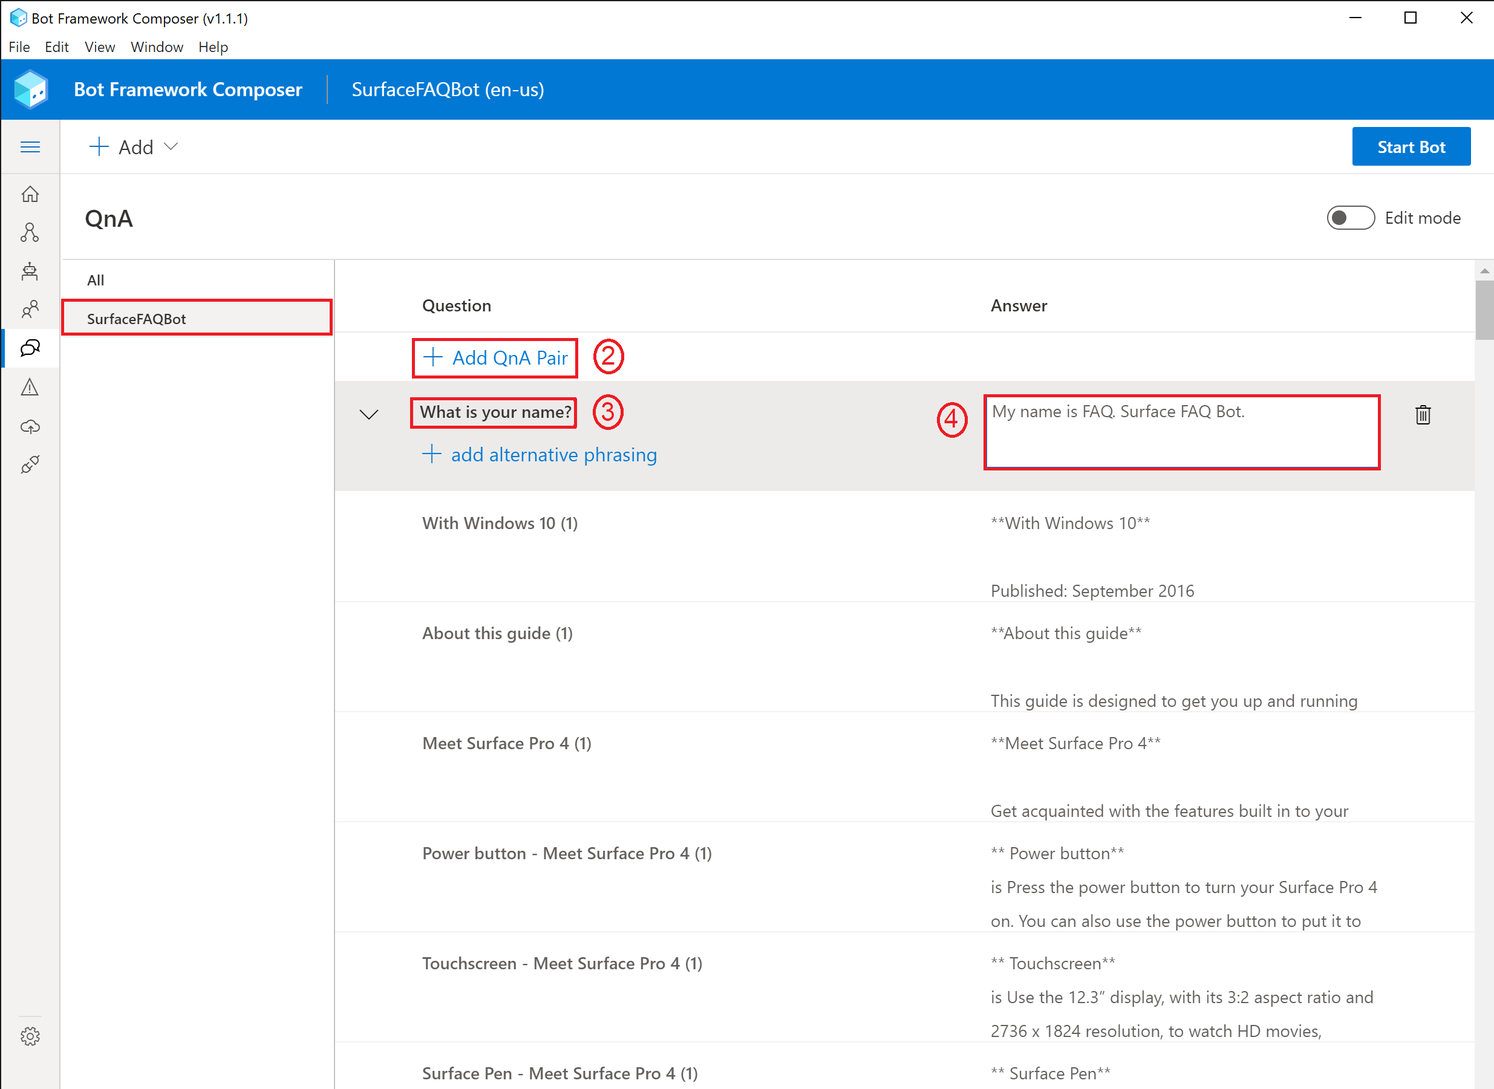
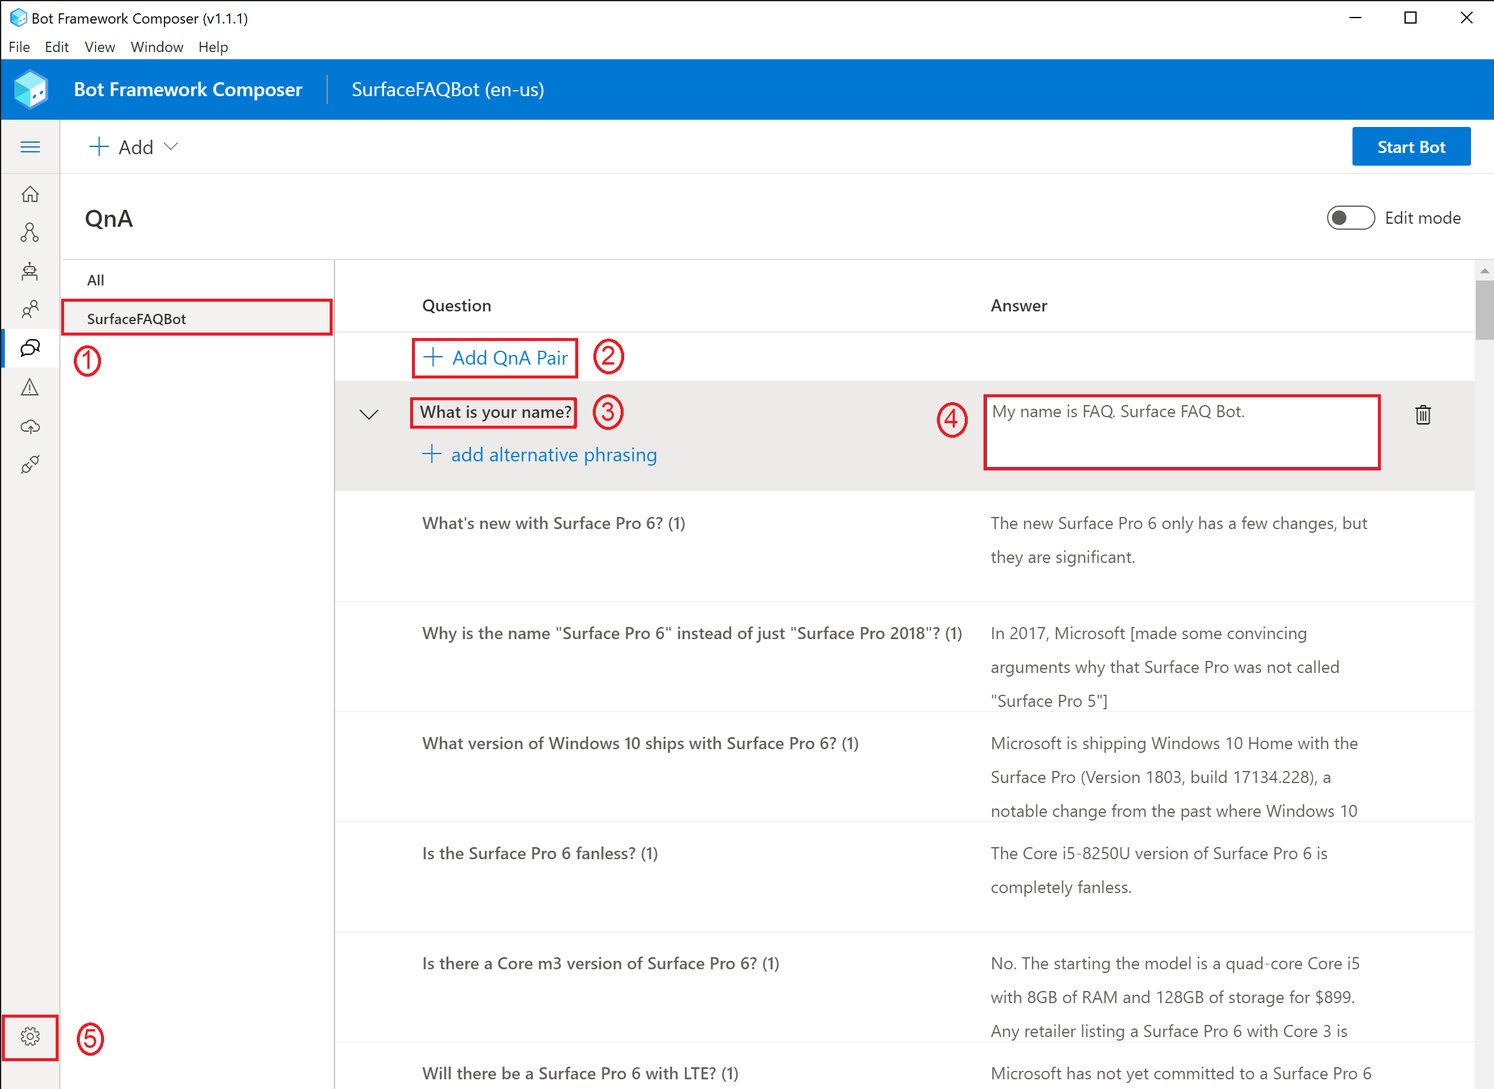
Updates.

diff --git a/README.md b/README.md
@@ -67,6 +67,7 @@ Bot Framework Composer is an open-source, visual authoring canvas for developers
      - On the top right hand corner of the page, **click on the icon that has your first and last name initials**.
         ![Azure Porta - QnAMaker portal](./images/qnamaker-portal.png)     
      - Click on **Show** next to the key belonging to the **QnaMaker** resouce you just deployed earlier. **Take note** of this key as your query endpoint key.
+        ![Azure Porta - QnAMaker portal](./images/qnamaker-portal-2.png)    
      >IMPORTANT:- You should now have taken notes of two keys, QnAMaker's authoring and query endpoint keys. You will need these keys in the next steps.
 
 ### 1. Building our Surface FAQ Bot locally!
@@ -90,7 +91,7 @@ Bot Framework Composer is an open-source, visual authoring canvas for developers
 
       ![Bot Framework Composer - Create from knowledge base](./images/BFComposer-3.png)
 
-     - Under **URL** input the following URL **https://github.com/samaea/Surface-FAQ-Bot-Workshop/raw/master/downloads/product-manual.pdf**. This is the Surface Book User Guide we will use to form our knowledge base from. Feel free to download the file yourself to see what is in it.
+     - Under **URL** input the following URL **https://www.windowscentral.com/surface-pro-6-faq**. This is just a random FAQ website I found for Surface FAQs
      - Click on **Create knowledge base**
      > A knowledge base consists of question and answer pairs. This can be brought manually or by public URLs and files (PDF, docx, etc). Once defined, QnAMaker will crawl the destination source and automatically extract the pair of questions and answers from it. For more information on different content-types supported by QnAMaker, please visit [here](https://docs.microsoft.com/en-us/azure/cognitive-services/qnamaker/concepts/content-types).
 
@@ -100,178 +101,32 @@ Bot Framework Composer is an open-source, visual authoring canvas for developers
      - Click on **SurfaceBotFaq**
      - Click on **Add QnA Pair**
      - For the **question**, type in **What is your name?** and for the **answer** type in **My name is FAQ. Surface FAQ Bot**
+     - Click on the **Settings** cogwheel, located on the bottom left corner of the screen.
 
       ![Bot Framework Composer - Create from knowledge base](./images/BFComposer-5.png)
 
   1. Let's configure Bot Framework Composer project/bot to point to the QnAMaker instance we deployed in Azure.
-     - Click on the **Settings** cogwheel.
+
      - In **Bot Settings**, you will notice a textbox field with JSON configuration in it, which represents the settings for your bot. **Scroll down** until you see the **qna** section.
      - In between the blank quotations **""** next to **subscriptionKey**, input your QnAMaker authoring key obtained in previous steps. Similary, to do the same with **endpointKey**, but input your querying endpoint key.
+     - Finally, click on **Start Bot**
+
+      ![Bot Framework Composer - Create from knowledge base](./images/BFComposer-6.png)
 
 
-      - Select the **Greeting** dialog and click on **Send a response** . Change the response to the following
+  1. Time to test the bot out locally!
+     - Click on **Test in Emulator** , right next to the **Restart Bot** button, which was previously called **Start Bot**
+     - Speak to the bot by asking it similar questions to the ones we populated earlier.
 
-      ```code
-      - Hi there! I am the Image Recognizer Bot, how can I help you today?
-      - Why hello there, it's me, the one and only Image Recognizer Bot, how can I assist you today?
-      ```
-
-      >The above demonstrates that you can greet your user with a variation of responses. Your bot will pick which one at random and display the respective response. This feature is great because it makes your bot sound less robotic compared to when it sends the exact same response each time. 
-
-
-      ![Bot Framework Composer - Changing Greeting message](./images/BFComposer-4.png)
-
-
-  1. >We will now extend our bot by adding a new intent and dialog called UploadImage. In order for our bot to detect this intent, we need to give it a few example utterances/sentences that demonstrates this intent. These utterances are then used by LUIS (Language Understanding Intelligent Service) to train the model for mapping our user's utterances with this intent.
-
-      - Click on **+ Add** and then **Add new trigger on ImageRecognizerBot**
-
-      - Name the dialog **UploadImage** dialog and provide the following example utterances to train LUIS
-
-
-      ```code
-      - I would like to upload an image
-      - analyse my picture
-      - describe an image
-      ``` 
-
-      ![Bot Framework Composer - Adding a new dialog](./images/BFComposer-5.png)
-      
-      ![Bot Framework Composer - Intent/Trigger phrases](./images/BFComposer-6.png)
-
-  1. >Now it's time to populate our UploadImage dialog to capture image uploads from our user,
-
-      - Click **+** -> **Ask a question** -> **File or attachment**
-
-      - Click on **Bot Asks (Attachment)** and paste in the following text:-
-
-      ```code
-      - Sure! Please upload the image you would like me to analyse?
-      ```
-
-      ![Bot Framework Composer - Ask a question, file or attachment](./images/BFComposer-7.png)
-
-      ![Bot Framework Composer - Inputting prompt message](./images/BFComposer-8.png)
-
-  1. Click on **User Input** and name the property **dialog.attachment** and Output format as **all**
-     > This basically means we can store and access the properties of our uploaded image via the variable dialog.attachment. Because we are using the property dialog to store our variable, the lifetime of our variable will persist to the same lifetime as our dialog. To learn more about memory state, please visit https://docs.microsoft.com/en-us/composer/concept-memory.
-
-      ![Bot Framework Composer - Setting property and output format](./images/BFComposer-9.png)
-
-  1. Click on  **+** -> **Send a response** and input the following text into the Language Generation box.
-
-      ```code
-      [HeroCard
-      title = Here is the photo you uploaded!
-      image = ${dialog.attachment[0].contentUrl}
-      ]
-      ```
-  
-      > It is possible to send bot responses that have enriched content beyond plaintext. This is when elements like HeroCard come in handy to display content such as images. More information on different type of cards can be found here:- https://docs.microsoft.com/en-us/composer/how-to-send-cards#card-types.
-
-      ![Bot Framework Composer - Inputting prompt message](./images/BFComposer-10.png)
-
-
-  1. Time to run and test our bot works okay! Click on **Start Bot**.
-
-      - It will ask you for a **LUIS Authoring key**, please ask your instructor for this key if you do not already have one. 
-      - Once inputted, click on **OK** and then click on  **Test in Emulator**.
-
-
-      ![Bot Framework Composer - Test in Emulator](./images/BFComposer-11.png)
-
-  1. Before we ask our bot to analyse an image, we need to provide one. As such, lets download Mr.Bean's picture from Flickr (because why not :)) https://live.staticflickr.com/4244/34613307720_d29cf0dd97_o_d.jpg.
-
-  1. Ask the bot to analyse your image. Use the below transcript screenshot as an example on how to do that. When it asks to upload an image, click on the **Attachment** icon -> Browse to your **Downloads** folder and select the image you just downloaded.
-
-      ![Bot Framework Composer - Bot Framework Emulator](./images/bf-emulator.png)
-
-      >Your bot should have returned a preview of the image you uploaded. This is an indication everything is working fine - well done! Next step will be to connect to Azure AI Cognitive Service to describe our image and for our bot to return the result.
-
-1. Let's now add a step to send our uploaded images to be analysed by Azure AI Cognitive Service called Computer Vision. Before we can do this however, we will need to deploy Computer Vision via Azure.
-
-    - Navigate to https://portal.azure.com
-    - Click on **Create a new resource**
-    - Search for **Computer Vision** and when the option appears in the dropdown menu, click on it.
-    - Click **Create**
-    - Fill out the form:-
-        - **Resource group**:- select your resource group you want to deploy the bot to e.g. **labuser1000-ImageRecognizerBot**
-        - **Region**:- select **North Europe**.
-        - **Name**:- name your Computer Vision API e.g. labuser1000-ImageRecognizerBot-computervision
-    - Click on **Review + create** and then **Create**
-    - Once deployed, click on **Go to Resource**
-    - Click on **Keys and Endpoint** from the left handside menu and take note of **Key 1** and the **Endpoint**.
-
-
-      ![Azure Portal - Create a new resource](./images/azure-portal-5.png)
-
-      ![Azure Portal - Searching for Computer Vision](./images/azure-portal-6.png)
-
-      ![Azure Portal - Computer Vision - Create](./images/azure-portal-7.png)
-
-      ![Azure Portal - Computer Vision - Create](./images/azure-portal-8.png)
-
-      ![Azure Portal - Computer Vision - Create](./images/azure-portal-9.png)
-
-      ![Azure Portal - Computer Vision - Keys and Endpoint](./images/azure-portal-10.png)
-
-      ![Azure Portal - Computer Vision - Keys and Endpoint](./images/azure-portal-11.png)
-
-
-  1. Switch back to Composer and click on the **+** button, the one just before the HeroCard response -> **Access External Resources** - > **Send an HTTP Request**
-      - Select the **HTTP method** as **POST**
-      - Set the URL to **XXXX**/vision/v2.1/analyze?visualFeatures=Description,Tags&subscription-key=**YYYY**
-      - Replace **XXXX** with the Computer Vision **endpoint** and **YYYY** with the **Key 1** (obtained from the previous step). 
-      - In the **Body** paste the following:-
-        ```code
-        {"url":"${dialog.attachment[0].contentUrl}"}
-         ```
-      - Under the **Result property**, input **dialog.visionApiResponse**
-        > This will basically output the response of the Vision API call into that variable. More information about sending HTTP requests in Composer can be found [here](https://docs.microsoft.com/en-us/composer/how-to-send-http-request).
-      
-      ![Bot Framework Composer - HTTP Request](./images/BFComposer-12.png)
-
-  1.  Let's modify the HeroCard response to reflect the results from the Computer Vision response. **Replace** its content with the following:-
-      ```code
-      [HeroCard
-          title = Here is the attachment
-          text = Description:- ${dialog.visionApiResponse.content.description.captions[0].text}  \r\n Tags:- ${replace(string(dialog.visionApiResponse.content.description.tags),'\r\n', '')}
-          image = ${dialog.attachment[0].contentUrl}
-       ]
-       ```
-       > As you can see above, we are accessing the properties of the dialog.visionApiResponse, which is the response given back when we performed the HTTP request above to the Computer Vision API. In addition, I used \r\n to generate a linebreak in the response and used the builtin replace function to remove the linebreaks from the HTTP response making it more readable.
-  1. To have this solution also work with Microsoft Teams, the attachment is accessible by the variable ${dialog.attachment[0].content.downloadUrl}** instead of ${dialog.attachment[0].contentUrl}. This is due to the file being behind an authenticated link. If you're interested to know more, have a look [here](https://developer.microsoft.com/en-us/microsoft-teams/blogs/working-with-files-in-your-microsoft-teams-bot/).
-
-      - Click on **+** -> **Create a condition** -> **Branch: If/Else**
-      - In the Condition field, set it to:-
-        ```code
-        exists(dialog.attachment[0].content.downloadUrl)
-        ```
-      - Under **True** click on **+** -> **Manage properties** -> **Set a property**
-      - Under the **Property** field, set it to:-
-        ```code
-        dialog.attachment[0].contentUrl
-        ```
-      ![Bot Framework Composer - Branch If/Else](./images/BFComposer-14.png)
-      - Under **Value** set it to:-
-        ```code
-        ${dialog.attachment[0].content.downloadUrl}
-        ```
-      ![Bot Framework Composer - Set a property](./images/BFComposer-15.png)
-
-  1. Go ahead and click on **Restart the bot** and afterwards on **Test in Emulator**
-      - Click on the **Settings** icon and ensure the tickbox **Bypass ngrok for local addressess** is **unticked**
-      - Swith back to the **Live Chat** tab
-      ![Bot Framework Emulator](./images/bf-emulator-3.png) 
-      - Try asking the bot to analyse your picture again and upload the same picture. You should see a response similar to the screenshot below:-
-      ![Bot Framework Emulator](./images/bf-emulator-2.png) 
+      ![Bot Framework Emulator](./images/bfemulator.png)
+  >Well done, you've successfully created a bot locally that leverages QnAMaker in the cloud to provide FAQ answers based on the data we trained it with.
 
 
 ### 2. Deploy our bot to Azure
   >In order to speak with our bot outside of our over channels such as Teams
-  1. Find out the location of your bot by clicking on the **Home** icon and reviewing the **Location** column. E.g. C:/Users/hussel/ImageRecognizerBot
+  1. Find out the location of your bot by clicking on the **Home** icon and reviewing the **Location** column. E.g. C:\Users\hussel\Bots\SurfaceFAQBot
 
-      ![Bot Framework Composer - Home](./images/bf-composer-13.png) 
+      ![Bot Framework Composer - Home](./images/bfcomposer-7.png) 
 
   1. We will also need to know the Azure Subscription Id of the subscription we will deploy our bot to:-
 
@@ -297,6 +152,10 @@ Bot Framework Composer is an open-source, visual authoring canvas for developers
      - Run the following command:-
         ```code
         npm install
+        # Modified the original composer template to exclude qnamaker as we have already deployed this in the first step. This will override the template created by the Bot Framework Composer
+        Invoke-WebRequest -Uri "https://github.com/samaea/Surface-FAQ-Bot-Workshop/raw/master/downloads/template-with-preexisting-rg.json" -OutFile "./DeploymentTemplates/template-with-preexisting-rg.json"
+        # Modifying the script to make it easier to deploy to an existing resource group
+        (Get-Content -path .\provisionComposer.js -Raw).replace('resourceGroupName = `${name}-${environment}`;','resourceGroupName = `${name}`;').replace('${name}-${environment}','${name}') | Set-Content -Path .\provisionComposer.js
         ```     
 
      - Run the following command, but replace the following values:-
@@ -304,9 +163,8 @@ Bot Framework Composer is an open-source, visual authoring canvas for developers
        - **\<NAME OF YOUR RESOURCE GROUP\>** with a **globally unique** name. For example, your **youralias-ImageRecognizerBot**
        - **\<APP PASSWORD\>** with a password that is at least 16 characters long with at least one number, one letter, and one special character. You can use your own password or even an online password generator such as https://www.random.org/passwords/
           ```code
-          node provisionComposer.js --subscriptionId=<YOUR AZURE SUBSCRIPTION ID> --name=<NAME OF YOUR RESOURCE GROUP>--appPassword=<APP PASSWORD> --environment=dev --createLuisAuthoringResource false --location northeurope --createCosmosDb false
+          node provisionComposer.js --subscriptionId=<YOUR AZURE SUBSCRIPTION ID> --name=<NAME OF YOUR RESOURCE GROUP>--appPassword=<APP PASSWORD> --environment=dev --createLuisAuthoringResource false --location westeurope --createCosmosDb false
           ```
-        ![PowerShell - cd](./images/powershell-2.png)
        - Assuming you have the same outcome as the above screenshot, you will be asked to navigate to **https://microsoft.com/devicelogin** and enter the code provided to authenticate into Azure. Please do this and select the correct account.
 
         ![PowerShell - cd](./images/powershell-3.png)
@@ -316,39 +174,36 @@ Bot Framework Composer is an open-source, visual authoring canvas for developers
        - **Switch back to PowerShell** upon successful authentication. You should notice everything is now deploying to Azure. When it finishes, it will output a JSON file which we will use in Bot Framework Composer. **Copy the output from the terminal** somewhere like Notepad, everything from the first open bracket until the last bracket, **for example**:-
        ```code
        {
-        "accessToken": "XXXX",
-        "name": "XXXX",
-        "environment": "dev",
-        "settings": {
-          "applicationInsights": {
-            "InstrumentationKey": "XXXX-XXXX-XXXX-XXXX-XXXX"
-          },
-          "cosmosDb": {
-            "cosmosDBEndpoint": "XXXX",
-            "authKey": "XXXX",
-            "databaseId": "XXXX",
-            "collectionId": "XXXX",
-            "containerId": "XXXX"
-          },
-          "blobStorage": {
-            "connectionString": "XXXX",
-            "container": "XXXX"
-          },
-          "luis": {
-            "authoringKey": "XXXX",
-            "authoringEndpoint": "",
-            "endpointKey": "XXXX",
-            "endpoint": "https://westeurope.api.cognitive.microsoft.com/",
-            "region": "westeurope"
-          },
-          "MicrosoftAppId": "XXXX-XXXX-XXXX-XXXX-XXXX",
-          "MicrosoftAppPassword": "XXXXXX"
-        },
-        "hostname": "XXXX-ImageReconigzer-Bot-dev",
-        "luisResource": "XXXX-ImageReconigzer-Bot-dev-luis"
+       "accessToken": "XXXX",
+       "name": "SamAEA-SurfaceFAQ-Bot10",
+       "environment": "dev",
+       "hostname": "SamAEA-SurfaceFAQ-Bot-dev",
+       "luisResource": "SamAEA-SurfaceFAQ-Bot-luis",
+       "settings": {
+         "applicationInsights": {
+           "InstrumentationKey": "XXXX-XXXX-XXXX-XXXX-XXXX"
+         },
+         "blobStorage": {
+           "connectionString": "XXXX",
+          "container": "transcripts"
+         },
+         "luis": {
+           "endpointKey": "XXXX",
+           "authoringKey": "",
+           "region": "westeurope",
+           "endpoint": "https://westeurope.api.cognitive.microsoft.com/",
+           "authoringEndpoint": ""
+         },
+         "qna": {
+           "endpoint": "",
+           "subscriptionKey": ""
+         },
+         "MicrosoftAppId": "XXXX",
+         "MicrosoftAppPassword": "XXXX"
+        }
        }
        ```
-        ![PowerShell - cd](./images/powershell-4.png)
+        ![PowerShell - cd](./images/powershell-2.png)
 
        >Congratulations - all the required Azure Services have now been deployed! We also have the required connection strings that we can use to feed to Composer in order to deploy our bot to Azure
 
@@ -356,71 +211,28 @@ Bot Framework Composer is an open-source, visual authoring canvas for developers
 
       - Click on the **Publish** icon and then on **Add a new Profile**
       
-        ![Bot Framework Composer - Publish ](./images/BFComposer-16.png)
+        ![Bot Framework Composer - Publish ](./images/BFComposer-8.png)
       - For the **Name** give it any name e.g. **Azure Publish Profile**
       - For the **Publish Destination** select **Publish bot to an Azure Web App (Preview)**
       - **Paste** the JSON output from the previous step into the **Publish Configuration** field
-      - Locate the **authoringKey** key in **Publish Configuration** and insert your **LUIS authoring** key in between the two qoutations.
+      - Locate the **endpoint** key in **Publish Configuration** and insert your **QnAMaker querying endpoint** key in between the two qoutations.
+      - Locate the **subscriptionKey** key underneath **endpoint** and insert your **QnAMaker authoring key**
       - Click **Save**
-        ![Bot Framework Composer - Publish ](./images/BFComposer-17.png)      
+        ![Bot Framework Composer - Publish ](./images/BFComposer-9.png)      
       - Click on **Publish to select profile**
       - After a couple of minutes, you should receive **Success**
-        ![Bot Framework Composer - Publish ](./images/BFComposer-18.png)        
+        ![Bot Framework Composer - Publish ](./images/BFComposer-10.png)        
       >Congrats! You've now deployed your bot to Azure, which means you can access it from anywhere in the world! 
   1. **Switch to the web browser that has Azure Portal** already loaded OR navigate to https://portal.azure.com.
       - Click on **Resource Groups**
-      - Select your resource group (e.g. **SamAEA-ImageRecognizerBot**)
+      - Select your resource group (e.g. **SamAEA-SurfaceFAQBot**)
       > You should now be able to see all the Azure services deployed by the PowerShell script we ran earlier.
       - Select your bot resource
       - Click on **Test in Webchat**
         ![Azure Portal - Test in WebChat](./images/azure-portal-14.png)
       - Feel free to chat with it like you did locally!
       
-### 3. Enablement of Teams Channel
-
-We will now activate the Teams Channel so that you can communicate via text messaging with your Image Recognizer Bot via Teams. 
-
-   1. Enable our bot to be surfaced through Microsoft Teams
-      - In the same browser tab we had opened in the previous step, click on **Channels**
-      - Click on the **Teams** icon
-       ![Azure Portal - Test in WebChat](./images/azure-portal-15.png)
-      - "Terms of Service" window may appear. If so, click on **Check the box and click ok**
-       ![Teams Channel](https://raw.githubusercontent.com/samaea/virtual-assistant-workshop/master/images/teamschannel.png)
-
-      - Click on the **Save** button
-
-       ![Azure Portal - Test in WebChat](./images/azure-portal-16.png)
-
-   1. Time to create a Teams manifest file to install our bot into Teams. If you're interested to find out more information, you can find this [here](https://docs.microsoft.com/en-us/microsoftteams/platform/bots/how-to/create-a-bot-for-teams#create-your-app-manifest-and-package)
-
-      - **Download** a premade Teams manifest ZIP file by clicking [here](https://github.com/samaea/Image-Recognizer-Bot-Workshop/releases/download/0.1/RecognizerBot.zip)
-      - **Open File Explorer** and go to your **Downloads** folder. 
-      - **Right click** on the **RecognizerBot.zip** and click on **Extract All...**
-       ![File Explorer - Extract zip file](./images/FileExplorer-5.png)
-      - Click on **Extract**
-       ![File Explorer - Extract zip file](./images/FileExplorer-6.png)
-      - Open the **manifest.json**
-       ![File Explorer - RecognizerBot folder view](./images/FileExplorer-7.png)
-      - Replace the **two** values of **b67388d7-e144-4ae2-9394-9273f56c4265** with your bot ID. This can be found from the JSON outputted in the PowerShell terminal in the previous steps. It will be called **MicrosoftAppId**
-       ![Notepad - manifest file](./images/notepad.png)
-      - **Save** the notepad file
-      - **Switch back** to the **File Explorer** and **highlight all the three files** in the folder, **right click** using your mouse and select **Send To** -> **Compressed (zipped) folder**
-       ![File Explorer - manifest file](./images/FileExplorer-8.png)
-      > This will save a file called manifest.zip in that same folder which we will use in the next step.
-   1. Open **Teams**
-      - Click on the **Ellipsis (...)**
-      - Click on **More apps**
-      - Click on Upload a custom app
-       ![Teams - upload a custom app](./images/Teams.png)
-      - Browse to **Downloads** -> **RecognizerBot folder** and select the **manifest.zip** you created in the previous step
-       ![File Explorer - upload a custom app](./images/FileExplorer-9.png)      
-      - Click on **Add for me**
-      ![Teams - Add for me](./images/Teams-2.png)
-      - The bot should now appear in Teams and you will now be able to analyse images in Teams, whether that's over the Desktop app or even Mobile app!
-      ![Teams - bot working in teams](./images/Teams-3.png)
-
-         
-### 4 Final Wrap Up
+### 3 Final Wrap Up
 
 You have successfully created your own Image Analyser Bot, congrats! This guide will stay publicly available, so if you wish to create a demo for internal or external meetings, you can do so by performing the steps within your Azure Subscription since the Lab Service will be shut down after MS Ready to avoide costs. 
 
